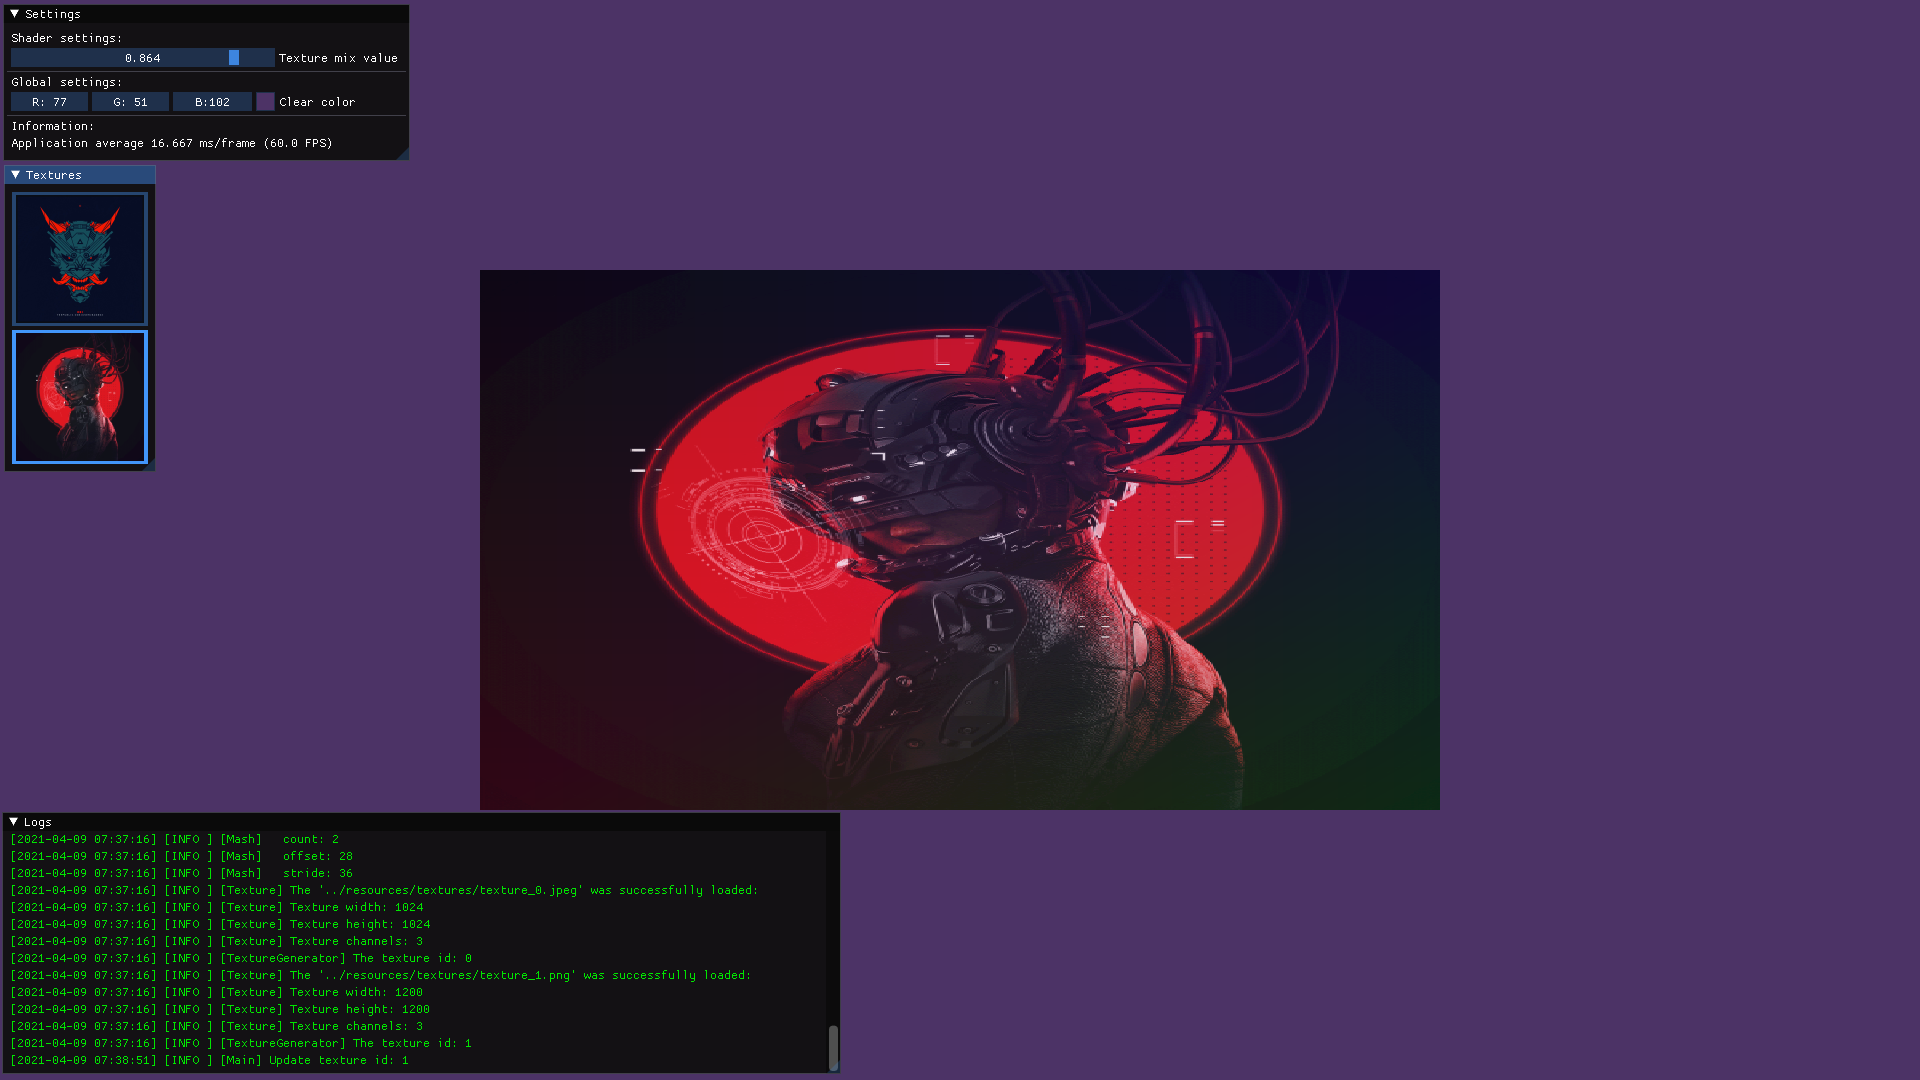
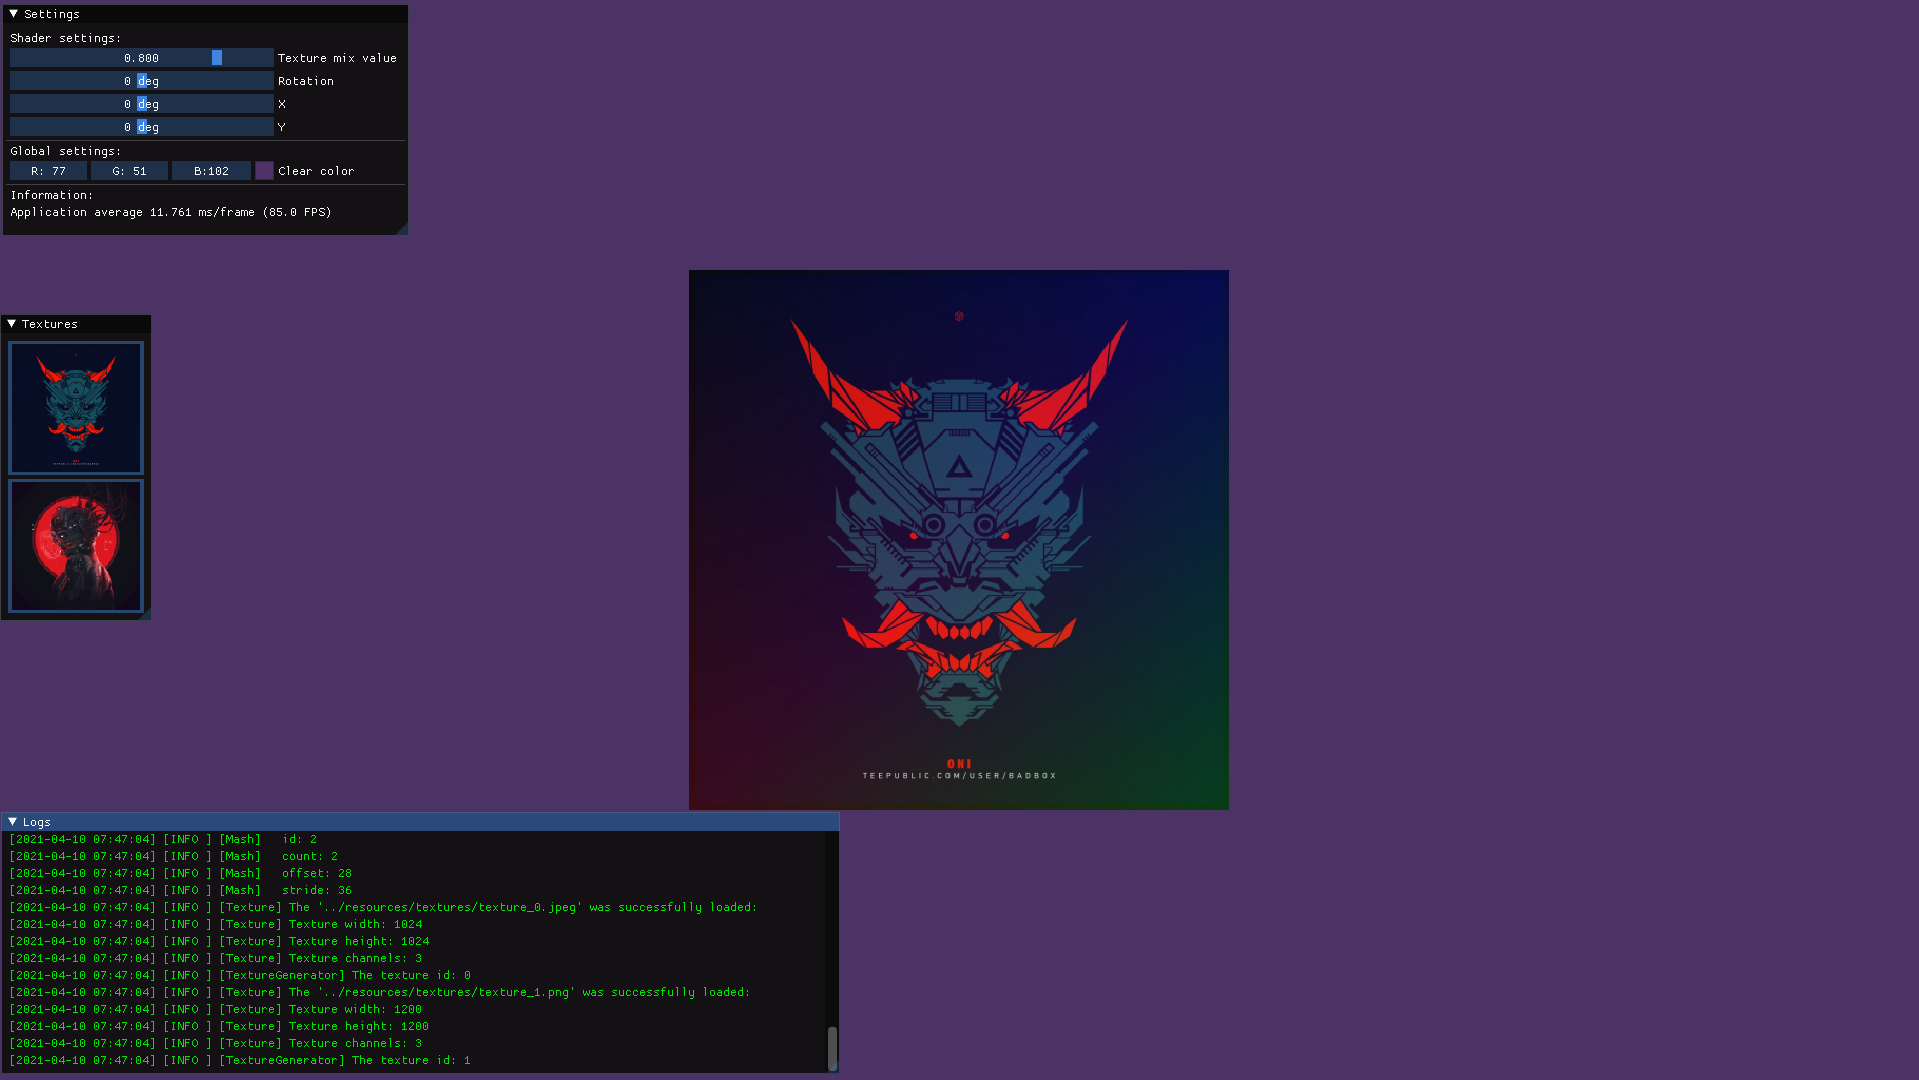
Add scaling and rotations

Changed region(s): [[0.0, 0.2444, 0.7686, 1.0], [0.0, 0.0306, 0.2152, 0.5806], [0.4919, 0.7028, 0.5227, 0.7333]]

diff --git a/Lesson_7/core/main.cpp b/Lesson_7/core/main.cpp
@@ -18,11 +18,13 @@ int main() {
         return 1;
     }
 
-    // Window window({800, 600}, "OpenGL + ImGui | Ravesli lesson 7");
-    Window window(glfwGetPrimaryMonitor(), "OpenGL + ImGui | Ravesli lesson 7");
+    // Window window({800, 600}, "OpenGL + ImGui | Ravesli lesson 7"); // windowed screen
+    Window window(glfwGetPrimaryMonitor(), "OpenGL + ImGui | Ravesli lesson 7"); // fullscreen
     if(!window.isAvtive()) {
         return 2;
     }
+    const float scaleCoef = window.height() / static_cast<float>(window.width());
+    LogI("[main] scaleCoef coef: %.3f", scaleCoef);
 
     if(GLenum rc = glewInit(); GL_NO_ERROR != rc) {
         LogE("[GLEW] Cannot initialize GLEW: %u", rc);
@@ -51,8 +53,11 @@ int main() {
     };
 
     glm::vec4 bgcolor{.3f, .2f, .4f, 1.0f};
-    float mix_value = 0.0f;
+    float mix_value = 0.8f;
     int texId = 0;
+    float angle = 0.0f;
+    float xAngle = 0.0f;
+    float yAngle = 0.0f;
 
     while(window.isAvtive()) {
         window.poll_events();
@@ -63,6 +68,12 @@ int main() {
         ImGui::NewFrame(); 
 
         shader->use();
+        glm::mat4 transformation = glm::mat4(1.0f);
+        transformation = glm::rotate(transformation, angle, glm::vec3{0, 0, 1});
+        transformation = glm::rotate(transformation, xAngle, glm::vec3{1, 0, 0});
+        transformation = glm::rotate(transformation, yAngle, glm::vec3{0, 1, 0});
+        transformation = glm::scale(transformation, glm::vec3{scaleCoef, 1, 0});
+        shader->set("transform", transformation);
         shader->set("mix_value", mix_value);
         shader->set("texId", texId);
         shader->unuse();
@@ -76,10 +87,12 @@ int main() {
         ImGui::Begin("Settings");
             ImGui::TextWrapped("Shader settings:");
             ImGui::SliderFloat("Texture mix value", &mix_value, 0.0f, 1.0f);
+            ImGui::SliderAngle("Rotation", &angle);
+            ImGui::SliderAngle("X", &xAngle);
+            ImGui::SliderAngle("Y", &yAngle);
             ImGui::Separator();
             ImGui::TextWrapped("Global settings:");
             ImGui::ColorEdit3("Clear color", &bgcolor[0]);
-
             ImGui::Separator();
             ImGui::TextWrapped("Information:");
             ImGui::TextWrapped("Application average %.3f ms/frame (%.1f FPS)",

diff --git a/Lesson_7/core/window/window.cpp b/Lesson_7/core/window/window.cpp
@@ -101,6 +101,20 @@ bool Window::isHold(unsigned key) {
     return GLFW_PRESS == glfwGetKey(wnd, key);
 }
 
+size_t Window::width() const {
+    int width = 0;
+    glfwGetWindowSize(wnd, &width, nullptr);
+    if(width < 0) width = 0;
+    return static_cast<size_t>(width);
+}
+
+size_t Window::height() const {
+    int height = 0;
+    glfwGetWindowSize(wnd, nullptr, &height);
+    if(height < 0) height = 0;
+    return static_cast<size_t>(height);
+}
+
 GLFWwindow* Window::handler() {
     return wnd;
 }

diff --git a/Lesson_7/core/shader/shader.cpp b/Lesson_7/core/shader/shader.cpp
@@ -90,6 +90,10 @@ void Shader::set(const std::string &property, bool value) {
     glUniform1i(this->location(property), static_cast<int>(value));
 }
 
+void Shader::set(const std::string &property, const glm::mat4 &value) {
+    glUniformMatrix4fv(this->location(property), 1, GL_FALSE, glm::value_ptr(value));
+}
+
 void Shader::use() {
     glUseProgram(prog);
 }

diff --git a/Lesson_7/core/shader/shader.hpp b/Lesson_7/core/shader/shader.hpp
@@ -20,6 +20,7 @@ public:
     void set(const std::string &property, float value);
     void set(const std::string &property, int value);
     void set(const std::string &property, bool value);
+    void set(const std::string &property, const glm::mat4 &value);
 
     void use();
     void unuse();

diff --git a/Lesson_7/core/window/window.hpp b/Lesson_7/core/window/window.hpp
@@ -21,6 +21,9 @@ public:
     bool isPressed(unsigned key);
     bool isHold(unsigned key);
 
+    size_t width() const;
+    size_t height() const;
+
     GLFWwindow *handler();
 private:
     GLFWwindow *wnd;

diff --git a/Lesson_7/core/incs.hpp b/Lesson_7/core/incs.hpp
@@ -8,6 +8,8 @@
 #include <GL/glew.h>
 #include <GLFW/glfw3.h>
 #include <glm/glm.hpp>
+#include <glm/gtc/matrix_transform.hpp>
+#include <glm/gtc/type_ptr.hpp>
 
 #include <iostream>
 #include <fstream>
